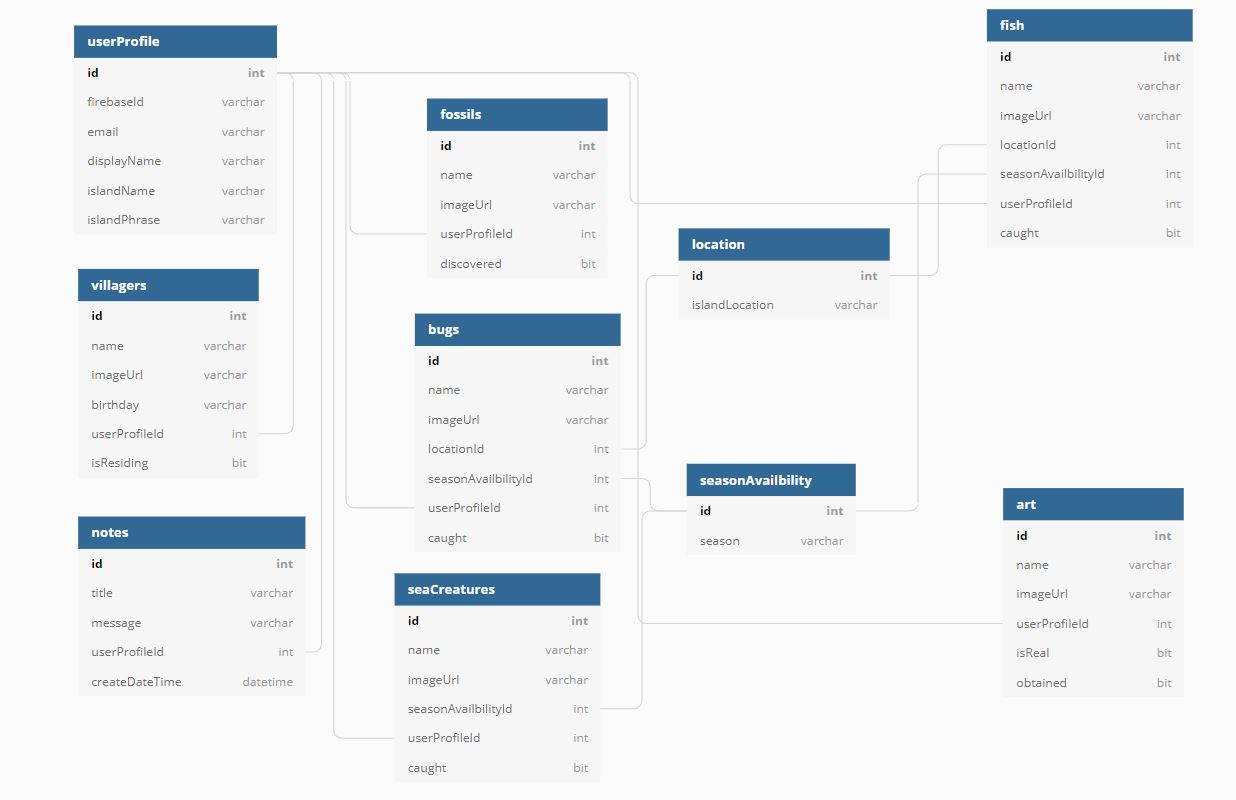
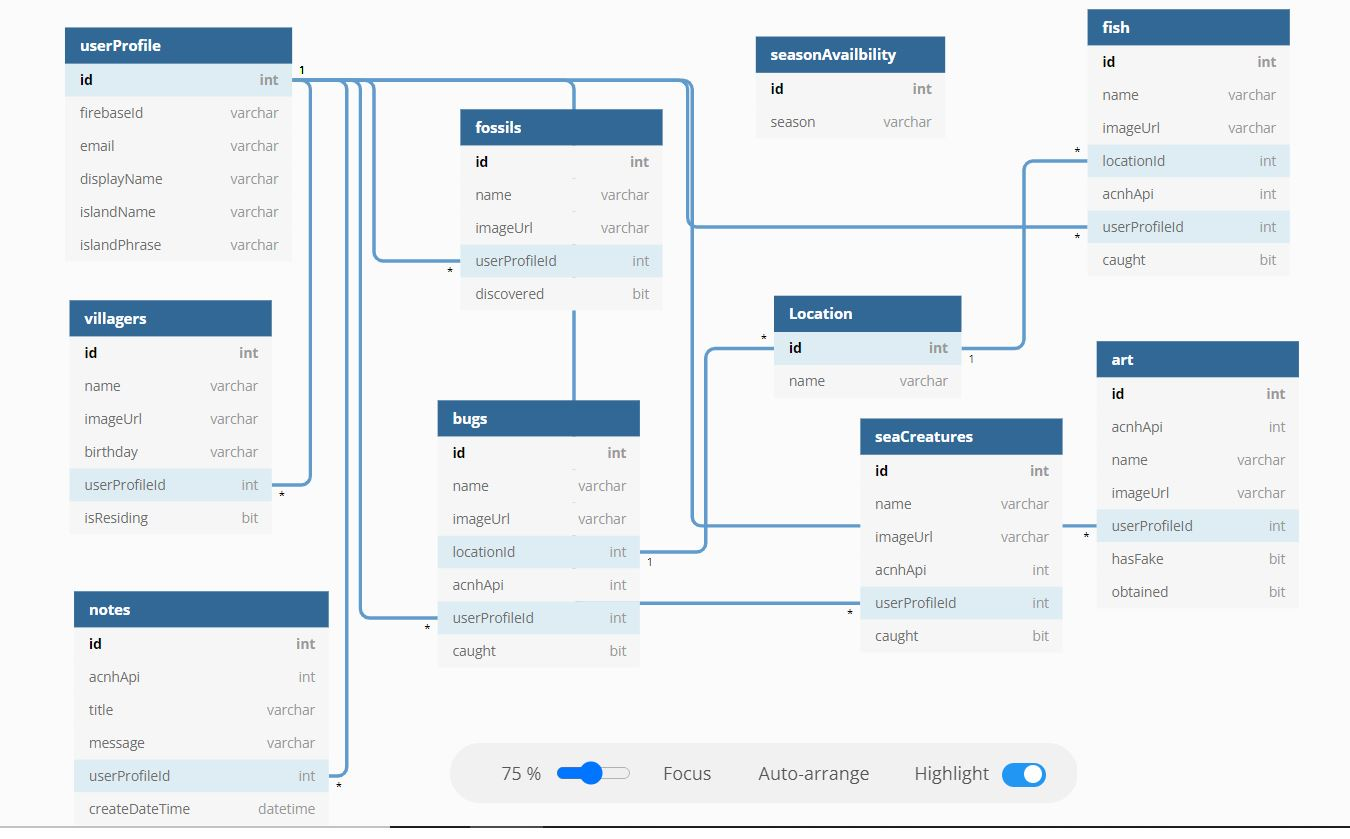
Art is adding to the database

diff --git a/Pocketpedia/client/src/components/Art/ArtCard.js b/Pocketpedia/client/src/components/Art/ArtCard.js
@@ -1,28 +1,28 @@
 import React, {useState} from "react";
 import { Card, CardBody } from "reactstrap";
-import { addArt, getArtFromApi } from "stream";
+import { addArt, getArtFromApi } from "../../modules/artManager";
 
-const ArtCard = ({ art }) => {
+const ArtCard = ({ arts }) => {
 
-    const [newArt, setNewArt] = useState({
-        id: art.id,
-        acnhApiId: art.acnhApiId,
-        name: art.name,
-        imageUrl: art.imageUrl,
-        hasFake: art.hasFake,
+    const [art, setArt] = useState({
+        id: arts.id,
+        acnhApiId: arts.acnhApiId,
+        name: arts.name,
+        imageUrl: arts.imageUrl,
+        hasFake: arts.hasFake,
         obtained: false
     });
 
     const handleSaveArt = (evt) => {
         evt.preventDefault()
         addArt({
-            id: newArt.id,
-            acnhApiId: newArt.acnhApiId,
-            name: newArt.name,
-            imageUrl: newArt.imageUrl,
-            hasFake: newArt.hasFake,
-            obtained: true,
-            userProfileId: newArt.userProfileId
+            id: art.id,
+            acnhApiId: art.acnhApiId,
+            name: art.name,
+            imageUrl: art.imageUrl,
+            userProfileId: art.userProfileId,
+            hasFake: art.hasFake,
+            obtained: true
         })
             .then(() => { getArtFromApi() })
     };
@@ -31,10 +31,11 @@ const ArtCard = ({ art }) => {
         <Card className="m-2 p-2 w-50 mx-auto">
             <CardBody className="m-3">
 
-                <img src={art.imageUrl} alt={art.name} />
-                <p><b>Name: </b>{art.name}</p>
-                <p><b>There is a fake: </b>{art.hasFake.toString()}</p>
-                <button onClick={handleSaveArt}>Purchased!</button>
+                <img src={arts.imageUrl} alt={arts.name} />
+                <p><b>Name: </b>{arts.name}</p>
+                <p><b>There is a fake: </b>{arts.hasFake.toString()}</p>
+                <br/>
+                <button onClick={handleSaveArt}>Purchased</button>
 
             </CardBody>
         </Card>

diff --git a/Pocketpedia/client/src/components/Fish/FishCard.js b/Pocketpedia/client/src/components/Fish/FishCard.js
@@ -15,6 +15,7 @@ const FishCard = ({ fish }) => {
 
     const handleSaveFish = (evt) => {
         evt.preventDefault()
+        
         addFish({
             id: newFish.id,
             acnhApiId: newFish.acnhApiId,
@@ -23,16 +24,17 @@ const FishCard = ({ fish }) => {
             locationId: newFish.locationId,
             caught: true,
             userProfileId: newFish.userProfileId
+           
         })
-            .then(() => { getFishFromApi() })
-    }
+            .then(() => { getFishFromApi() })        
+    };
 
     return (
         <Card className="m-2 p-2 w-50 mx-auto">
             <CardBody className="m-3">
 
                 <img src={fish.imageUrl} alt={fish.name} /> 
-                <p><b>Title: </b>{fish.name}</p>
+                <p><b>Name: </b>{fish.name}</p>
                 <p><b>Location: </b>{fish.locationId}</p>
                 <button onClick={handleSaveFish}>Caught!</button>
 

diff --git a/Pocketpedia/client/src/components/Fish/FishList.js b/Pocketpedia/client/src/components/Fish/FishList.js
@@ -1,13 +1,13 @@
-import React, { useEffect, useState } from "react";
+import React, { useState, useEffect } from "react";
 import { getFishFromApi } from "../../modules/fishManager";
 import FishCard from "./FishCard";
 
 const FishList = () => {
 
-    const [ fish, setFish ] = useState([]);
+    const [ fishes, setFishes ] = useState([]);
 
     const getFish = () => {
-        getFishFromApi().then(fish => setFish(fish));
+        getFishFromApi().then(fishes => setFishes(fishes));
     }
 
     useEffect(() => {
@@ -18,7 +18,7 @@ const FishList = () => {
         <>
             <div className="container">
                 <div className="row justify-content-center">
-                    {fish.map((fish) => (
+                    {fishes.map((fish) => (
                         <FishCard fish={fish} key={fish.acnhApiId} />
                     ))}
                 </div>

diff --git a/Pocketpedia/client/src/components/Art/ArtList.js b/Pocketpedia/client/src/components/Art/ArtList.js
@@ -4,10 +4,11 @@ import ArtCard from "./ArtCard";
 
 const ArtList = () => {
 
-    const [ art, setArt ] = useState([]);
+    const [ arts, setArts ] = useState([]);
+
 
     const getArt = () => {
-        getArtFromApi().then(art => setArt(art));
+        getArtFromApi().then(arts => setArts(arts));
     }
 
     useEffect(() => {
@@ -18,8 +19,8 @@ const ArtList = () => {
         <>
             <div className="container">
                 <div className="row justify-content-center">
-                    {art.map((art) => (
-                        <ArtCard art={art} key={art.acnhApiId} />
+                    {arts.map((art) => (
+                        <ArtCard arts={art} key={art.acnhApiId} />
                     ))}
                 </div>
             </div>

diff --git a/Pocketpedia/client/src/components/Bugs/BugCard.js b/Pocketpedia/client/src/components/Bugs/BugCard.js
@@ -46,7 +46,7 @@ const BugCard = ({ bug }) => {
 
                 <img src={bug.imageUrl} alt={bug.name} />
                 <p><b>Name: </b>{bug.name}</p>              
-                <p><b>Location: </b>{bug.locationId.name}</p>                
+                <p><b>Location: </b>{bug.locationId}</p>                
                 <button onClick={handleSaveBug} disabled={handleSaveBug ? false : true}>Caught!</button>
 
             </CardBody>

diff --git a/Pocketpedia/Repositories/ArtRepository.cs b/Pocketpedia/Repositories/ArtRepository.cs
@@ -28,10 +28,12 @@ namespace Pocketpedia.Repositories
 
             var desiredResponse = apiArts.Values.Select(apiArt => new Art()
             {
+
                 AcnhApiId = apiArt.id,
-                Name = apiArt.filename,
+                Name = apiArt.name.nameUSen,
                 ImageUrl = apiArt.image_uri,
                 HasFake = apiArt.hasFake
+
             }).ToList();
 
             return desiredResponse;
@@ -78,16 +80,16 @@ namespace Pocketpedia.Repositories
 
                 using (var cmd = conn.CreateCommand())
                 {
-                    cmd.CommandText = @"INSERT INTO Art ( AcnhApiId, Name, ImageUrl, UserProfileId, HasFake, Obtained)
+                    cmd.CommandText = @"INSERT INTO Art ( AcnhApiId, [Name], ImageUrl, UserProfileId, HasFake, Obtained)
                                         OUTPUT INSERTED.ID
-                                        VALUES (@AcnhApiId, @Name, @ImageUrl, @HasFake, @UserProfileId, @Obtained)";
+                                        VALUES (@AcnhApiId, @Name, @ImageUrl, @UserProfileId, @HasFake, @Obtained)";
 
-                    DbUtils.AddParameter(cmd, "@AcnhApiId", art.Name);
+                    DbUtils.AddParameter(cmd, "@AcnhApiId", art.AcnhApiId);
                     DbUtils.AddParameter(cmd, "@Name", art.Name);
                     DbUtils.AddParameter(cmd, "@ImageUrl", art.ImageUrl);
                     DbUtils.AddParameter(cmd, "@UserProfileId", art.UserProfileId);
                     DbUtils.AddParameter(cmd, "@HasFake", art.HasFake);
-                    DbUtils.AddParameter(cmd, "@oBtained", art.Obtained);
+                    DbUtils.AddParameter(cmd, "@Obtained", art.Obtained);
 
 
                     art.Id = (int)cmd.ExecuteScalar();

diff --git a/Pocketpedia/Repositories/FishRepository.cs b/Pocketpedia/Repositories/FishRepository.cs
@@ -36,7 +36,7 @@ namespace Pocketpedia.Repositories
             var desiredResponse = apiFishes.Values.Select(apiFish => new Fish()
             {
                 AcnhApiId = apiFish.id,
-                Name = apiFish.filename,
+                Name = apiFish.name.nameUSen,
                 LocationId = locations.FirstOrDefault(location => apiFish.availability.location == location.Name).Id,
                 ImageUrl = apiFish.icon_uri
 
@@ -53,7 +53,7 @@ namespace Pocketpedia.Repositories
 
                 using (var cmd = conn.CreateCommand())
                 {
-                    cmd.CommandText = @"SELECT f.Id as FishId, f.AcnhApiId, f.Name, f.ImageUrl, f.LocationId, f.UserProfileId, f.Caught
+                    cmd.CommandText = @"SELECT f.Id as FishId, f.AcnhApiId, f.Name, f.ImageUrl, f.LocationId, f.UserProfileId
                                         FROM Fish f";
 
                     var reader = cmd.ExecuteReader();

diff --git a/Pocketpedia/Models/ApiVillager.cs b/Pocketpedia/Models/ApiVillager.cs
@@ -32,25 +32,6 @@ namespace Pocketpedia.Models
         public CatchTranslations catchtranslations { get; set; }
     }
 
-    public class Name
-    {
-        [JsonPropertyName("name-USen")]
-        public string nameUSen { get; set; }
-        public string nameEUen { get; set; }
-        public string nameEUde { get; set; }
-        public string nameEUes { get; set; }
-        public string nameUSes { get; set; }
-        public string nameEUfr { get; set; }
-        public string nameUSfr { get; set; }
-        public string nameEUit { get; set; }
-        public string nameEUnl { get; set; }
-        public string nameCNzh { get; set; }
-        public string nameTWzh { get; set; }
-        public string nameJPja { get; set; }
-        public string nameKRko { get; set; }
-        public string nameEUru { get; set; }
-    }
-
     public class CatchTranslations
     {
         [JsonPropertyName("catch-USen")]

diff --git a/Pocketpedia/Models/ApiArt.cs b/Pocketpedia/Models/ApiArt.cs
@@ -21,23 +21,4 @@ namespace Pocketpedia.Models
         [JsonPropertyName("museum-desc")]
         public string museumdesc { get; set; }
     }
-
-    //public class Name
-    //{
-    //    [JsonPropertyName("name-USen")]
-    //    public string nameUSen { get; set; }
-    //    public string nameEUen { get; set; }
-    //    public string nameEUde { get; set; }
-    //    public string nameEUes { get; set; }
-    //    public string nameUSes { get; set; }
-    //    public string nameEUfr { get; set; }
-    //    public string nameUSfr { get; set; }
-    //    public string nameEUit { get; set; }
-    //    public string nameEUnl { get; set; }
-    //    public string nameCNzh { get; set; }
-    //    public string nameTWzh { get; set; }
-    //    public string nameJPja { get; set; }
-    //    public string nameKRko { get; set; }
-    //    public string nameEUru { get; set; }
-    //}
 }

diff --git a/Pocketpedia/Models/Name.cs b/Pocketpedia/Models/Name.cs
@@ -1,0 +1,24 @@
+using System.Text.Json.Serialization;
+
+namespace Pocketpedia.Models
+{
+    public class Name
+    {
+        [JsonPropertyName("name-USen")]
+        public string nameUSen { get; set; }
+        public string nameEUen { get; set; }
+        public string nameEUde { get; set; }
+        public string nameEUes { get; set; }
+        public string nameUSes { get; set; }
+        public string nameEUfr { get; set; }
+        public string nameUSfr { get; set; }
+        public string nameEUit { get; set; }
+        public string nameEUnl { get; set; }
+        public string nameCNzh { get; set; }
+        public string nameTWzh { get; set; }
+        public string nameJPja { get; set; }
+        public string nameKRko { get; set; }
+        public string nameEUru { get; set; }
+    }
+
+}

diff --git a/Pocketpedia/Controllers/VillagersController.cs b/Pocketpedia/Controllers/VillagersController.cs
@@ -33,7 +33,7 @@ namespace Pocketpedia.Controllers
         }
 
         [HttpGet("GetVillagers")]
-        public IActionResult GetAllVillagers()
+        public IActionResult GetVillagers()
         {
             return Ok(_villagersRepository.GetVillagers());
         }
@@ -44,7 +44,7 @@ namespace Pocketpedia.Controllers
             var currentUserProfile = GetCurrentUserProfile();
             villager.UserProfileId = currentUserProfile.Id;
             _villagersRepository.Add(villager);
-            return CreatedAtAction(nameof(GetAllVillagers), new { id = villager.Id }, villager);
+            return CreatedAtAction(nameof(GetVillagers), new { id = villager.Id }, villager);
         }
 
         // Get the current user

diff --git a/Pocketpedia/Repositories/BugsRepository.cs b/Pocketpedia/Repositories/BugsRepository.cs
@@ -37,7 +37,7 @@ namespace Pocketpedia.Repositories
             var desiredResponse = apiBugs.Values.Select(apiBug => new Bug()
             {
                 AcnhApiId = apiBug.id,
-                Name = apiBug.filename,
+                Name = apiBug.name.nameUSen,
                 LocationId = locations.FirstOrDefault(location => apiBug.availability.location == location.Name).Id,
                 ImageUrl = apiBug.icon_uri
 
